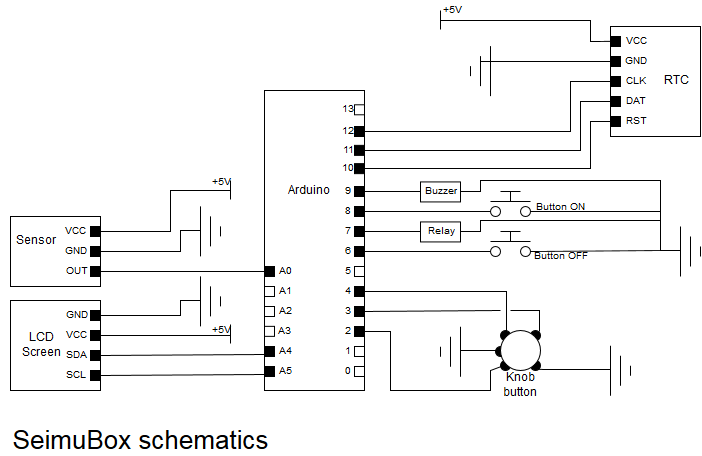
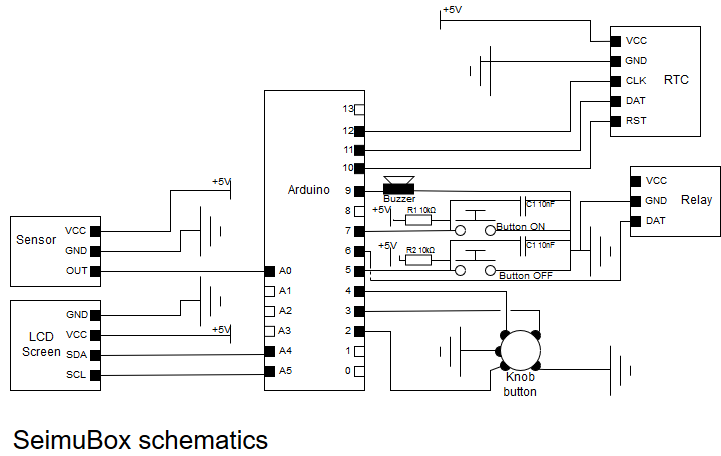
Updating shematics.

diff --git a/README.md b/README.md
@@ -1,10 +1,11 @@
 # FabLab-Automate
 TODO LIST :
+	- Adding timer if out of interval.
+	- Correct schematics.
+	- Correct names for menu in code.
+	- Do manual.
 	- Set description and change title.
-	- Correct schematics
-	- Do manual
-	- Correct names for menu in codes
-	- Correct the box
+	- Correct the box.
 	- Find an easy way to do the electronic.
 	- Do the communication.
 
